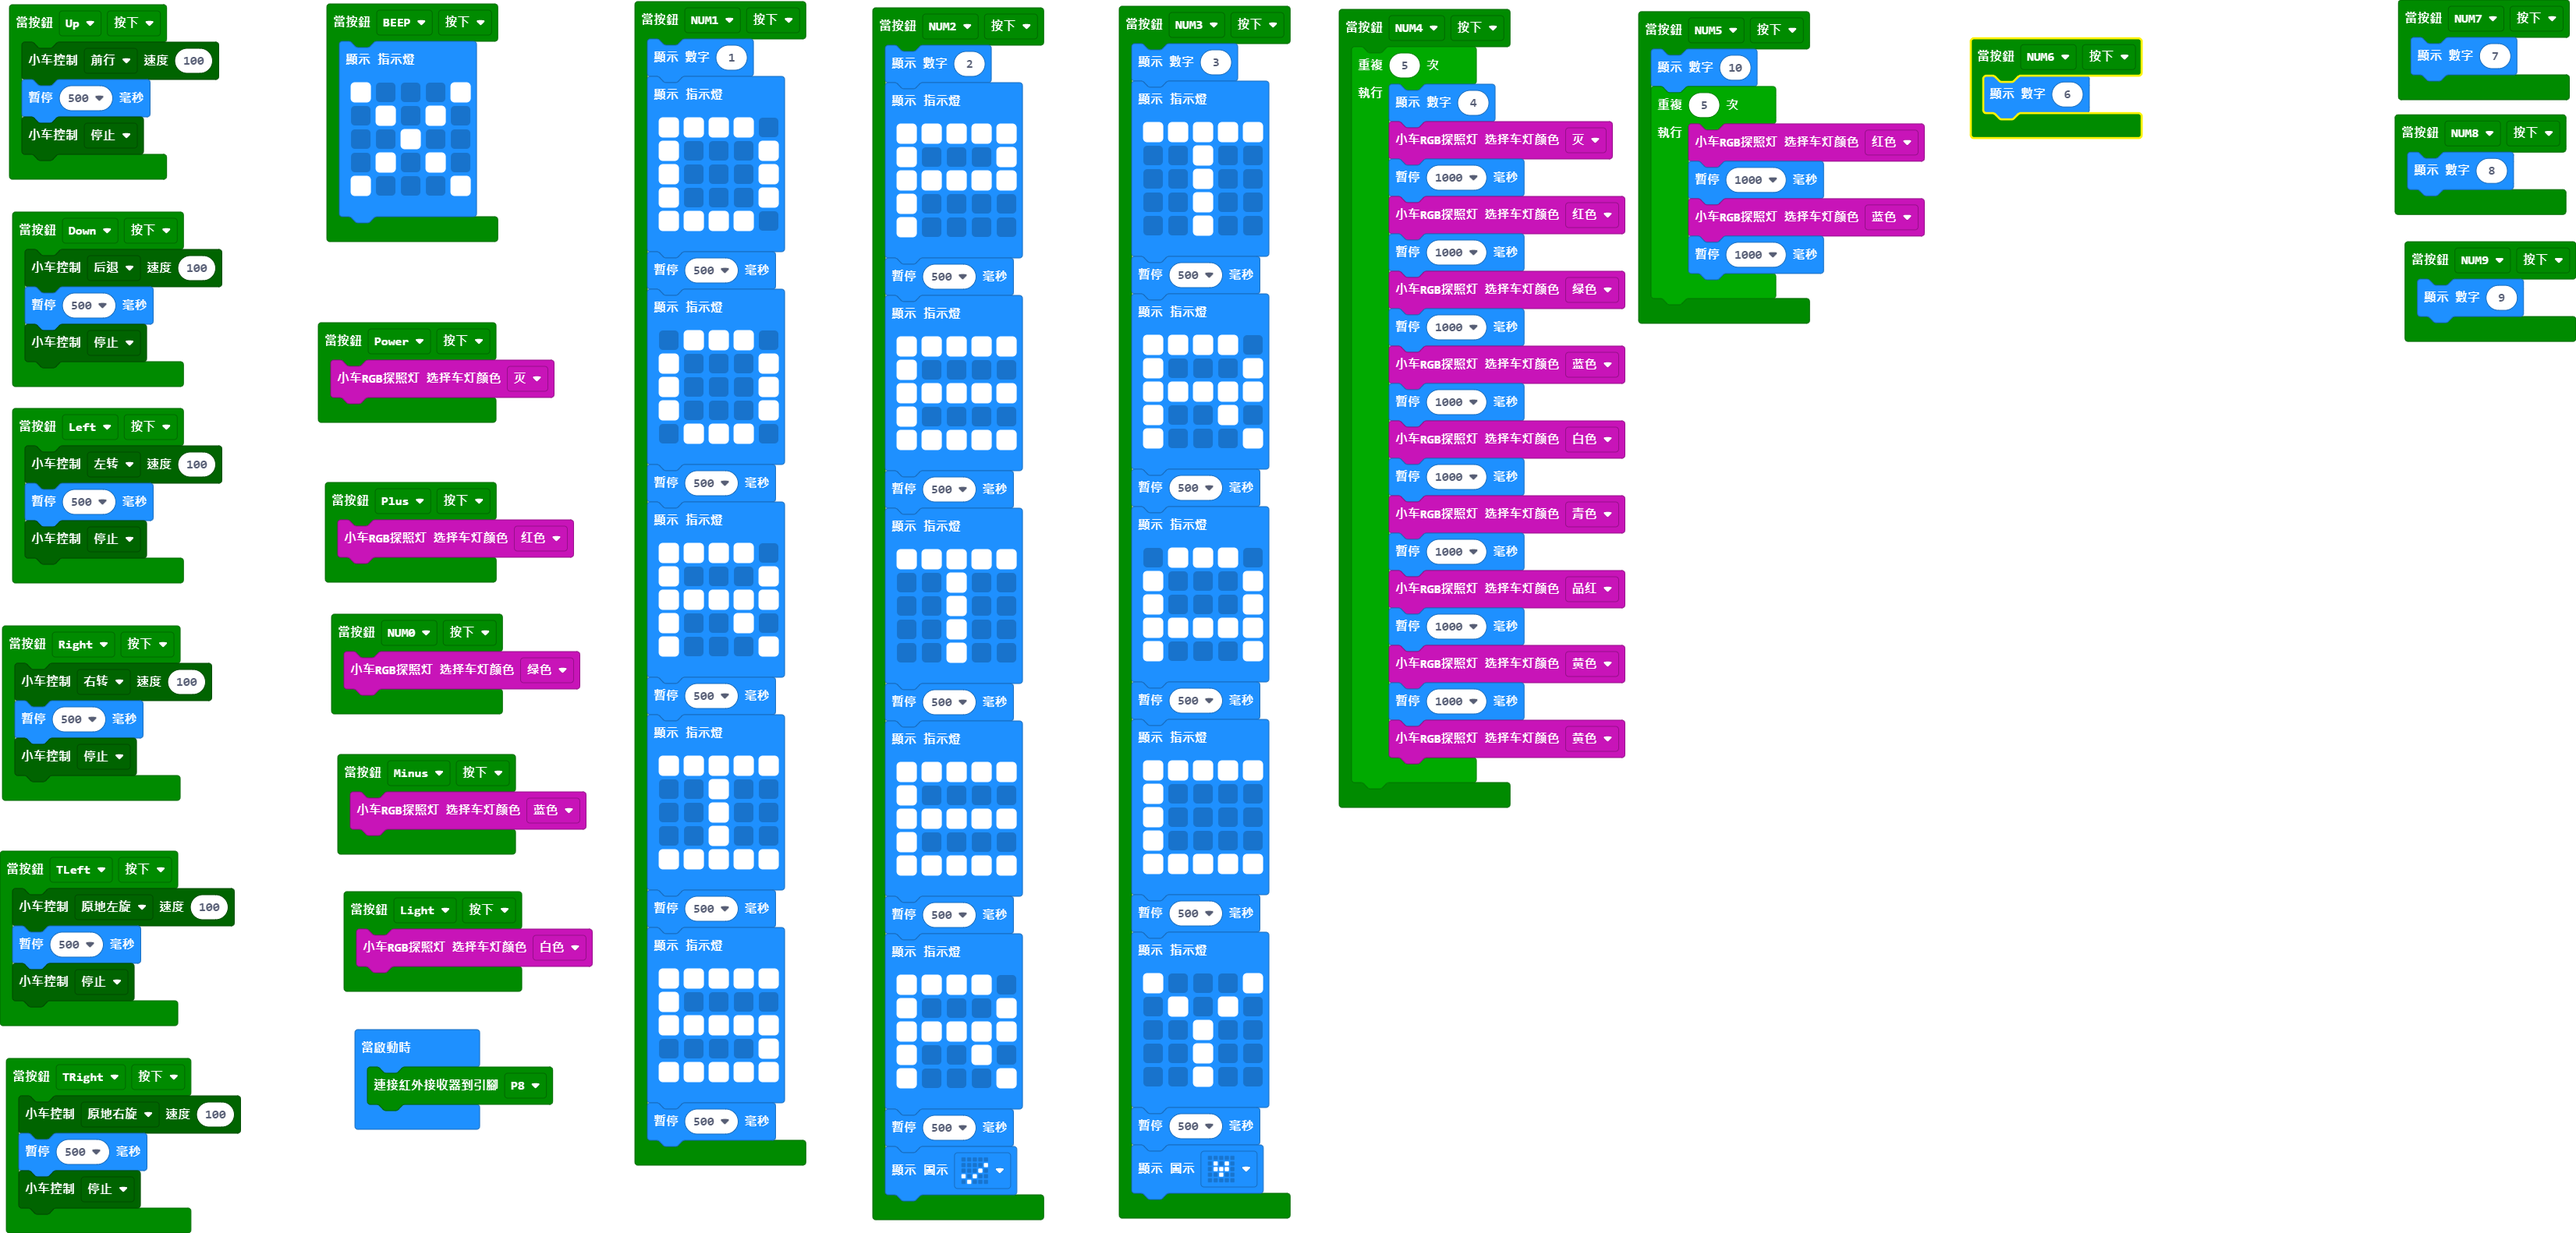
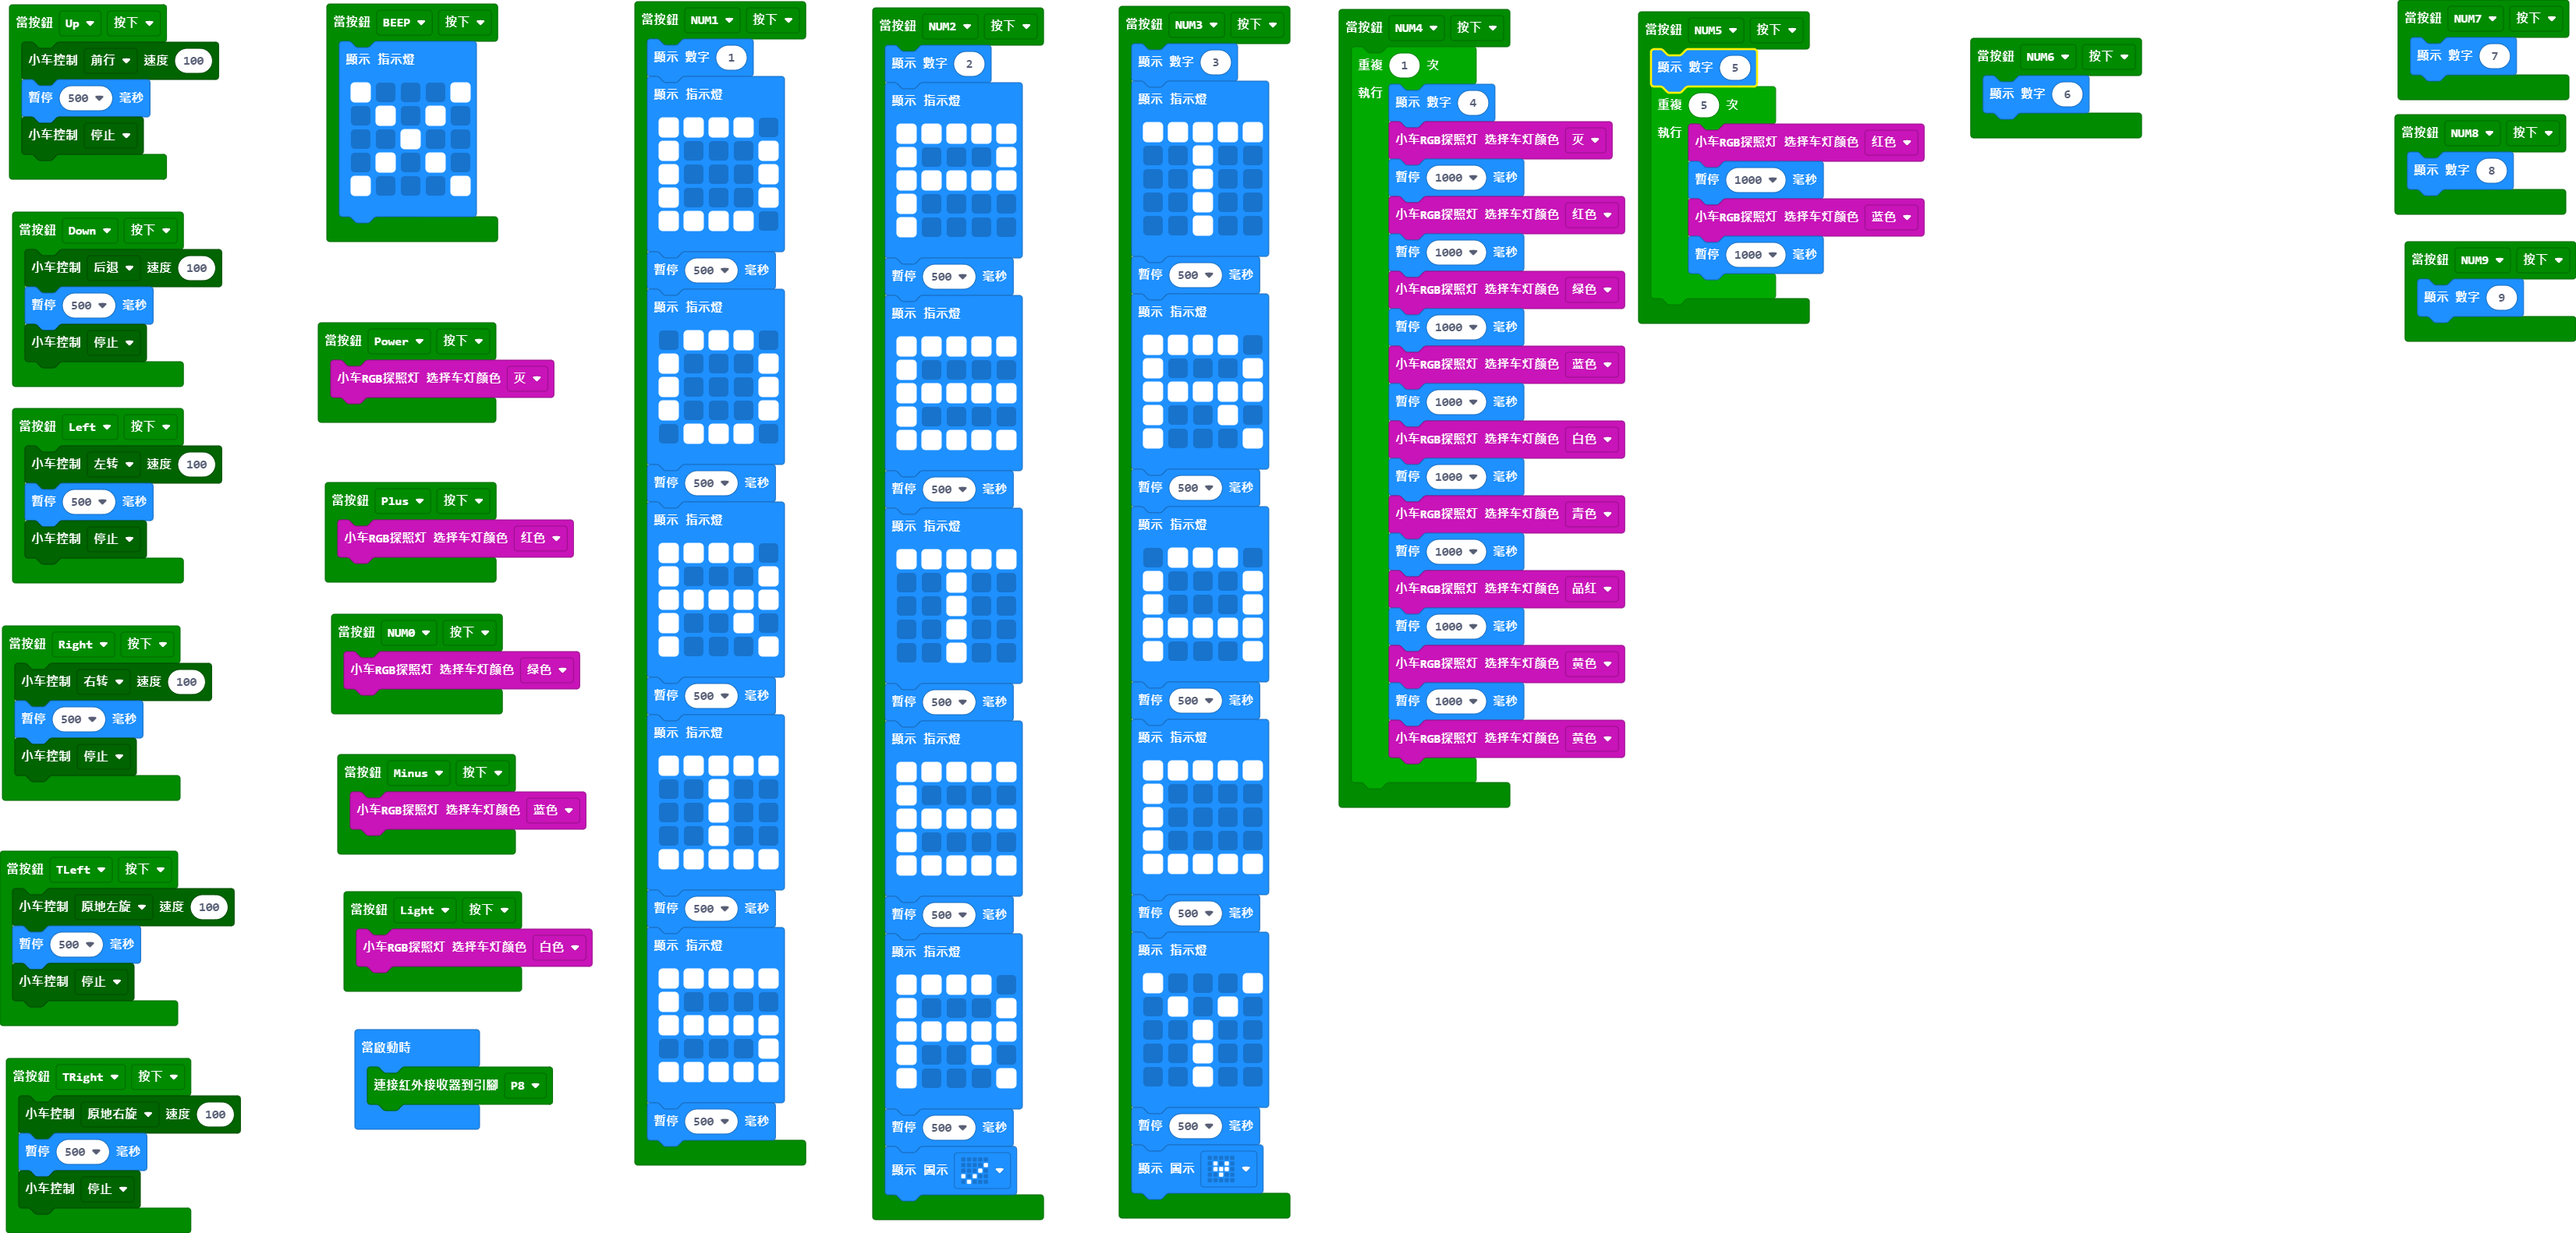
更新 main.blocks, main.ts

Changed region(s): [[0.7484, 0.031, 0.842, 0.0929], [0.9355, 0.0, 0.9667, 0.0619], [0.6549, 0.031, 0.686, 0.0929]]

diff --git a/main.ts b/main.ts
@@ -173,7 +173,7 @@ makerbit.onIrButton(IrButton.TRight, IrButtonAction.Pressed, function () {
     mbit_小车类.CarCtrl(mbit_小车类.CarState.Car_Stop)
 })
 makerbit.onIrButton(IrButton.NUM5, IrButtonAction.Pressed, function () {
-    basic.showNumber(10)
+    basic.showNumber(5)
     for (let index = 0; index < 5; index++) {
         mbit_小车类.RGB_Car_Big2(mbit_小车类.enColor.Red)
         basic.pause(1000)
@@ -182,7 +182,7 @@ makerbit.onIrButton(IrButton.NUM5, IrButtonAction.Pressed, function () {
     }
 })
 makerbit.onIrButton(IrButton.NUM4, IrButtonAction.Pressed, function () {
-    for (let index = 0; index < 5; index++) {
+    for (let index = 0; index < 1; index++) {
         basic.showNumber(4)
         mbit_小车类.RGB_Car_Big2(mbit_小车类.enColor.OFF)
         basic.pause(1000)
